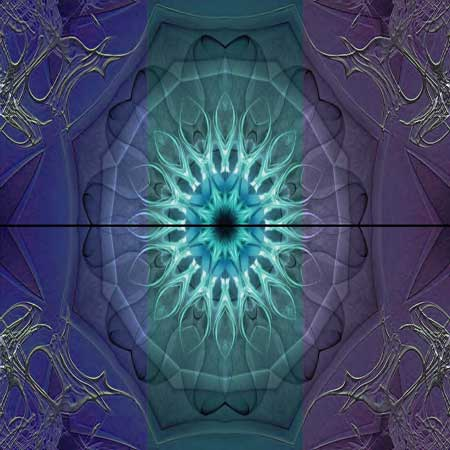
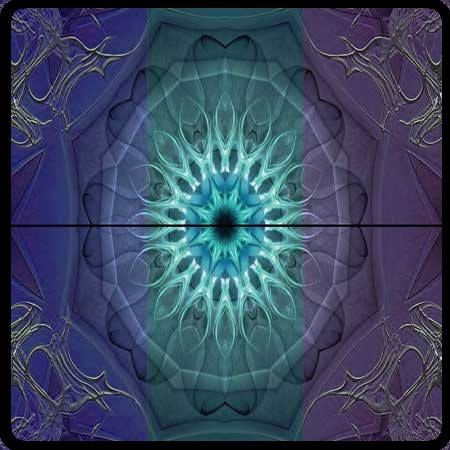
darken cards and add border to back, change button text

Changed region(s): [[0.0, 0.0, 1.0, 1.0]]

diff --git a/Assets/Scripts/PlayerManager.cs b/Assets/Scripts/PlayerManager.cs
@@ -387,7 +387,7 @@ public class PlayerManager : NetworkBehaviour
 		}
 		else if(TurnText.text == "End Turn" && played)
 		{
-			TurnText.text = "Pressed";
+			TurnText.text = "Waiting";
 			
 			if(gameState == "Battle")
 			{
